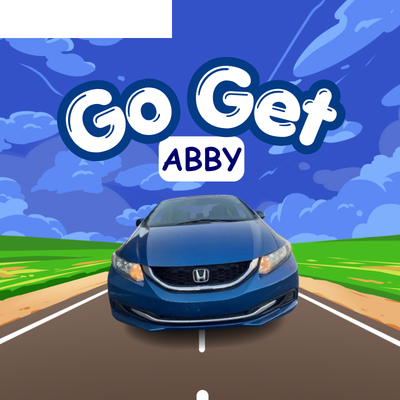
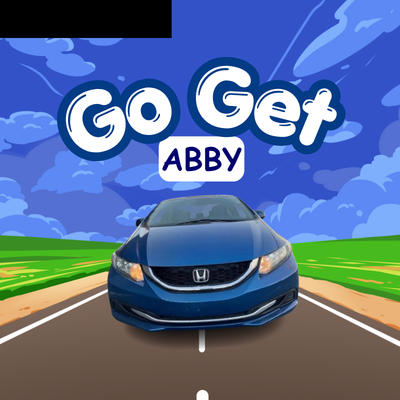
fixed the text dissapearing because of its color made it white and then changed the bg img

Changed region(s): [[0.0, 0.0, 0.45, 0.12]]

diff --git a/game.html b/game.html
@@ -9,7 +9,7 @@
         body {
             font-family: 'Arial', Helvetica, sans-serif;
             background-color: #fbceda ;
-            color: rgb(65, 0, 17);
+            color: rgb(0, 0, 0);
             margin: 0;
             padding: 0;
             box-sizing: border-box;
@@ -208,8 +208,8 @@
 
     #scorePanel {
     position: absolute;
-    top: 10px;
-    left: 10px;
+    top: 3px;
+    left: -2px;
     font-size: 18px;
     font-weight: bold;
     z-index: 1010; /* above start screen so score stays visible on top of the cover */
@@ -217,6 +217,7 @@
     gap: 15px;
     padding: 6px 10px;
     border-radius: 6px;
+   color: white;
     }
 
         .shake {
@@ -404,7 +405,7 @@
                 x: canvas.width,
                 y: y,
                 // obstacles faster now; background (road) speed left unchanged
-                speed: isFast ? 14 : 9,
+                speed: isFast ? 10 : 7,
                 scored: false,
                 fast: isFast
                 });
